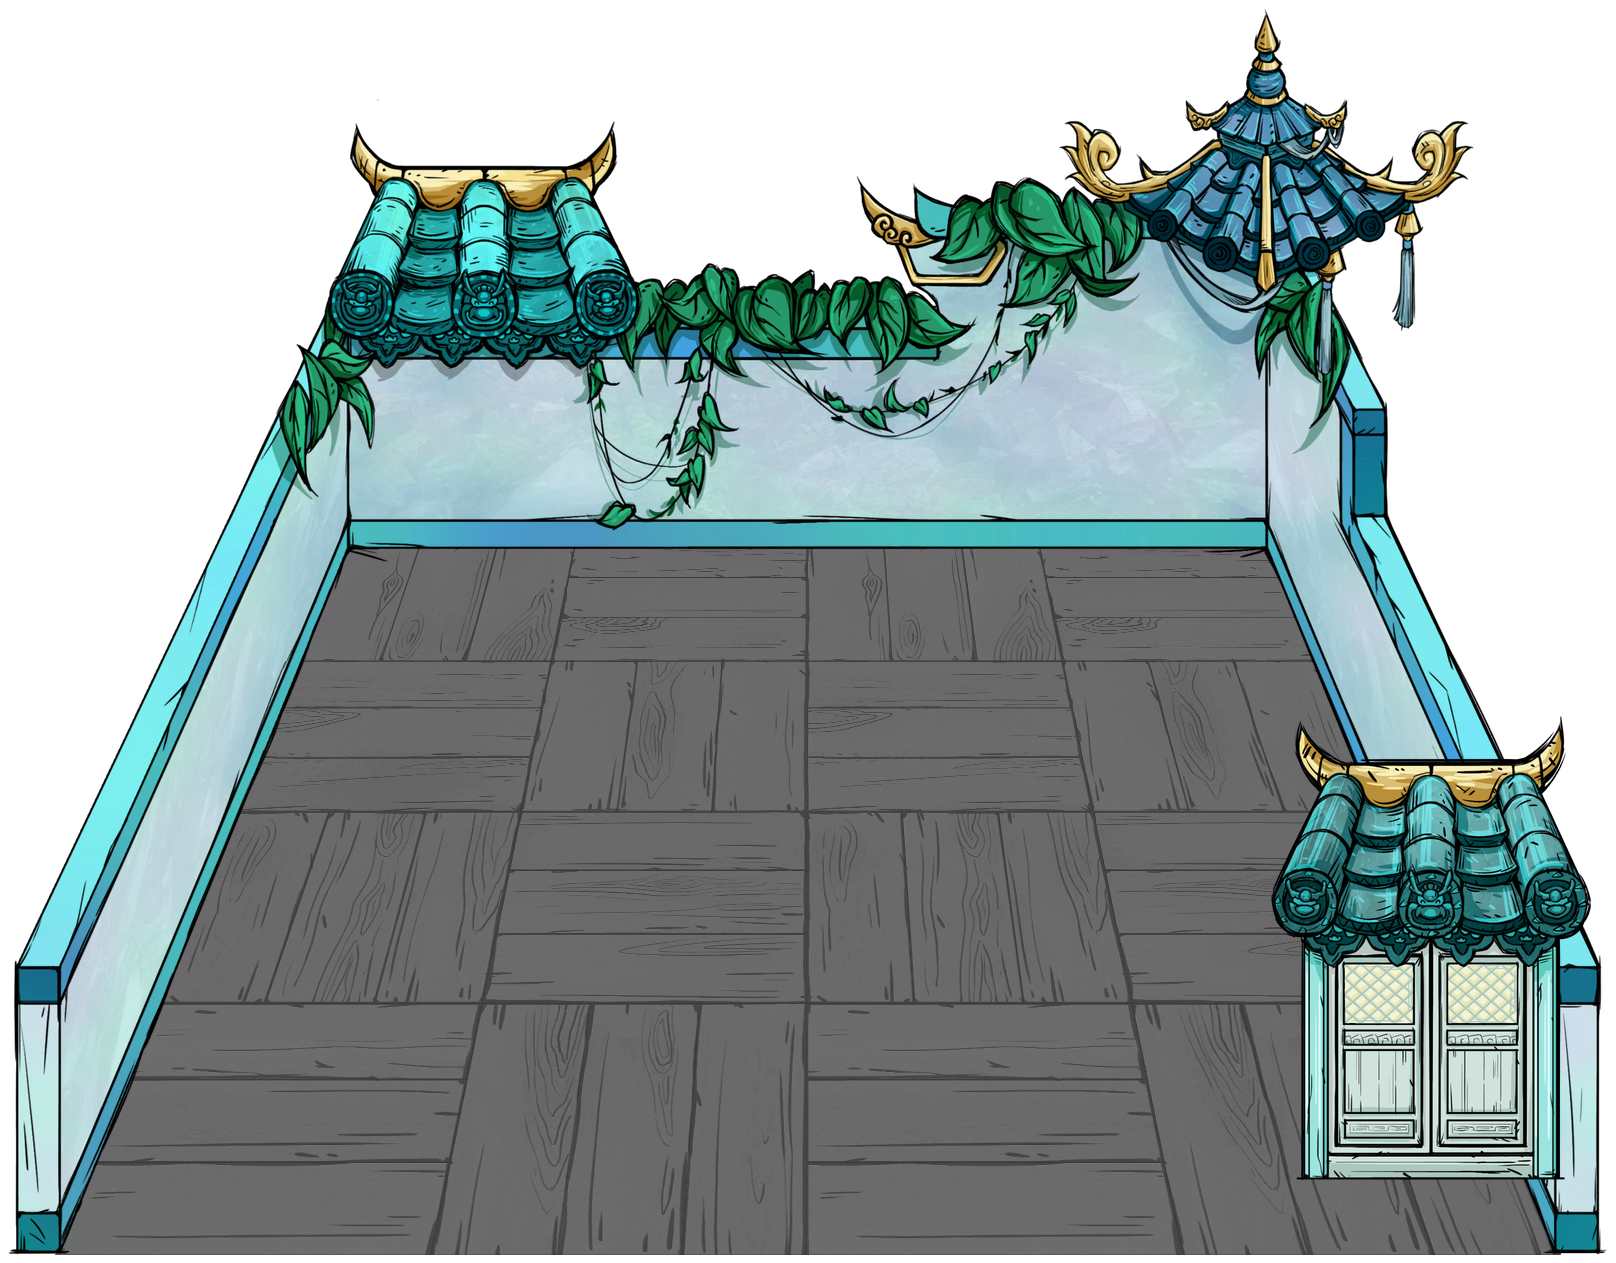
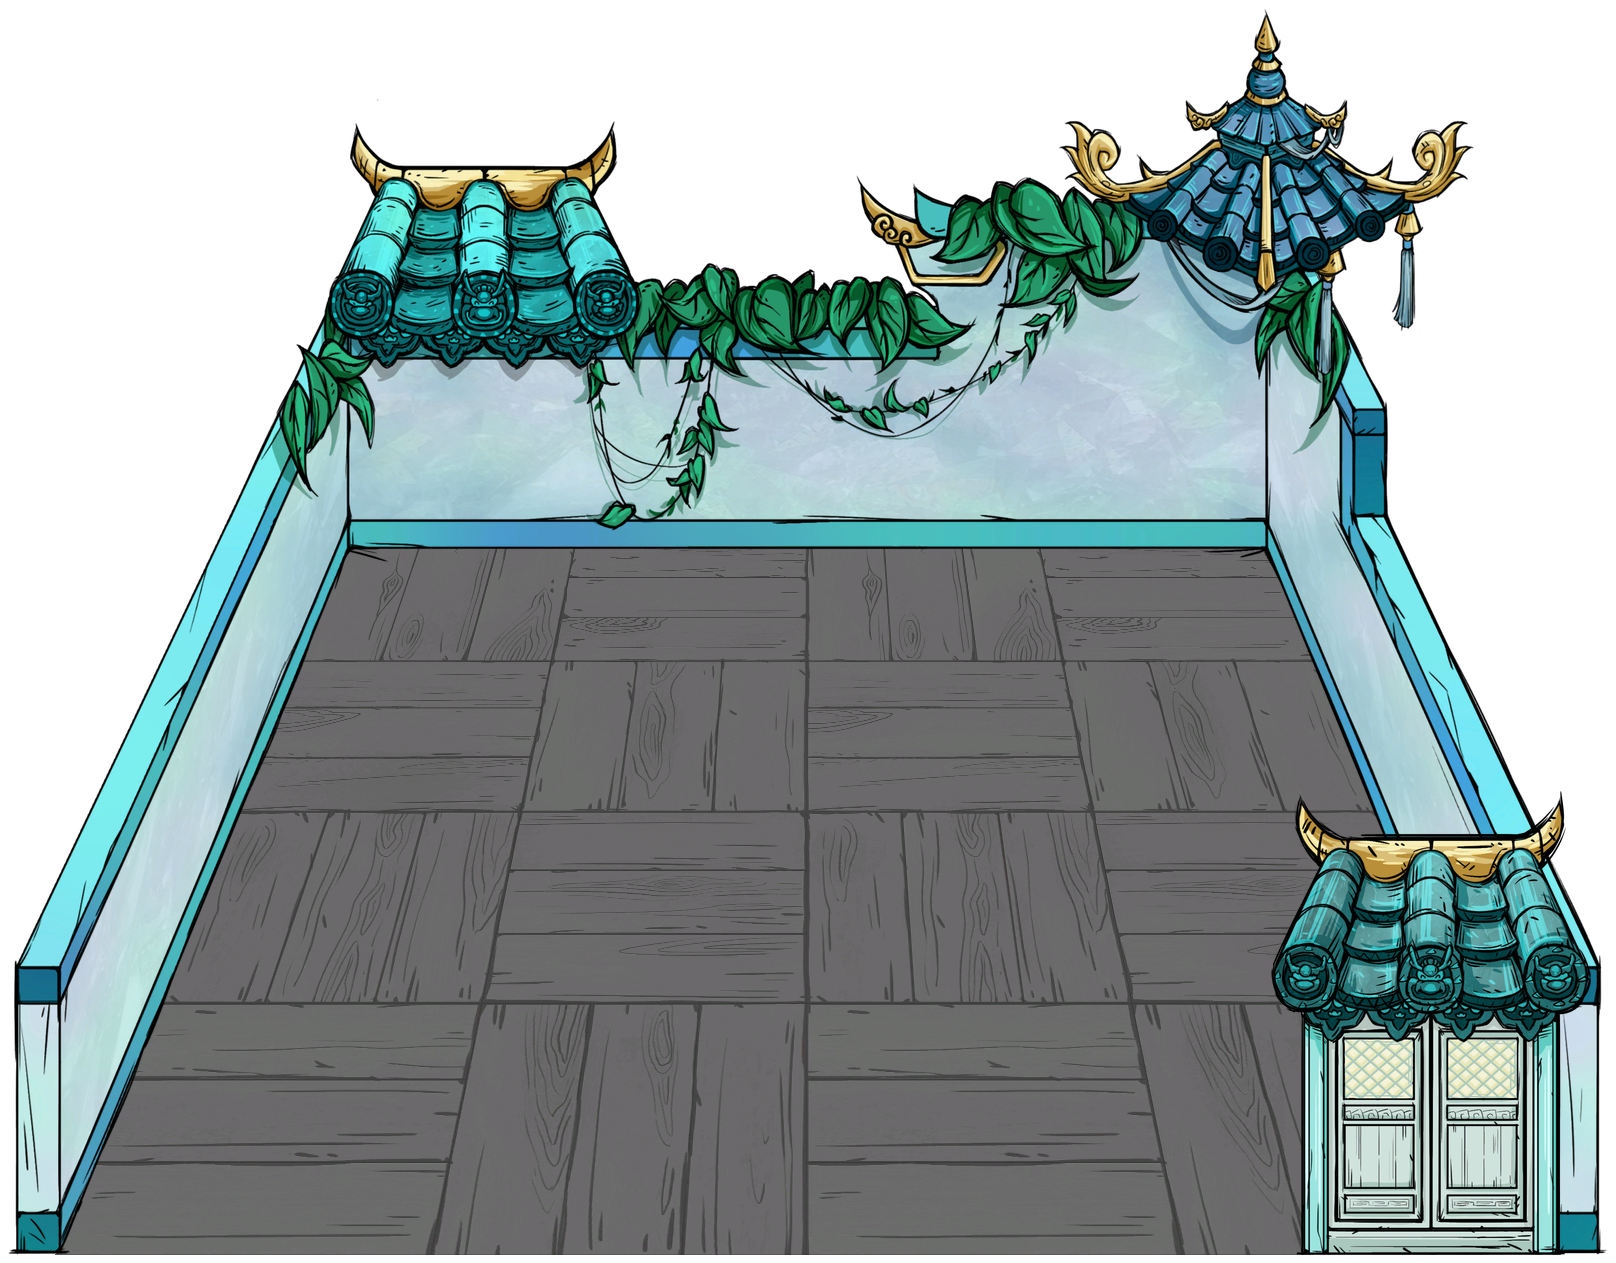
Align interior vines, stairs and doors with room openings

Changed region(s): [[0.7735, 0.5867, 0.9901, 1.0]]

diff --git a/data/site-data.js b/data/site-data.js
@@ -3734,9 +3734,9 @@ window.SITE_DATA = {
       "illustration": "assets/img/terrains/loc_hall.png",
       "preview_caption": "厅堂内景预览",
       "scene_hotspots": [
-        {"label": "引霄灵藤（左侧）", "target": "loc_bedroom", "x": 25.2475, "y": 51.3849, "width": 14.4802, "height": 46.6094, "hint": "进入左侧卧房", "hint_align": "start"},
-        {"label": "引霄灵藤（右侧）", "target": "loc_bedroom_right", "x": 74.7525, "y": 51.3849, "width": 14.4802, "height": 46.6094, "hint": "进入右侧卧房", "hint_align": "end"},
-        {"label": "青石楼梯", "target": "loc_foyer", "x": 49.6287, "y": 92.4546, "width": 21.0396, "height": 8.787, "hint": "返回前室"}
+        {"label": "引霄灵藤（左侧）", "target": "loc_bedroom", "x": 9.7772, "y": 62.8857, "width": 14.4802, "height": 44.2831, "hint": "进入左侧卧房", "hint_align": "start"},
+        {"label": "引霄灵藤（右侧）", "target": "loc_bedroom_right", "x": 90.2228, "y": 62.8857, "width": 14.4802, "height": 44.2831, "hint": "进入右侧卧房", "hint_align": "end"},
+        {"label": "青石楼梯", "target": "loc_foyer", "x": 49.6287, "y": 95.0998, "width": 21.0396, "height": 8.3485, "hint": "返回前室"}
       ],
       "scene_hint": "点击图中引霄灵藤（左侧）、引霄灵藤（右侧）、青石楼梯，前往对应位置。",
       "summary": "青玄阁内连接两间卧房的厅堂，共用防猎犬生成、恒温、避雨与夜间照明。",
@@ -3777,7 +3777,7 @@ window.SITE_DATA = {
       "aliases": ["阁主卧房", "左侧卧房"],
       "illustration": "assets/img/terrains/loc_bedroom.png",
       "scene_hotspots": [
-        {"label": "鎏角青玄门", "target": "loc_hall", "x": 88.552, "y": 75.0594, "width": 19.802, "height": 36.7379, "hint": "返回厅堂", "hint_align": "end"}
+        {"label": "鎏角青玄门", "target": "loc_hall", "x": 88.552, "y": 80.9976, "width": 19.802, "height": 36.7379, "hint": "返回厅堂", "hint_align": "end"}
       ],
       "preview_caption": "左侧卧房内景预览",
       "scene_hint": "点击图中鎏角青玄门，前往对应位置。",
@@ -3818,7 +3818,7 @@ window.SITE_DATA = {
       "aliases": ["右侧卧房"],
       "illustration": "assets/img/terrains/loc_bedroom_right.png",
       "scene_hotspots": [
-        {"label": "银翘古木门", "target": "loc_hall", "x": 11.3243, "y": 74.8219, "width": 19.802, "height": 36.7379, "hint": "返回厅堂", "hint_align": "start"}
+        {"label": "银翘古木门", "target": "loc_hall", "x": 11.3243, "y": 80.9976, "width": 19.802, "height": 36.7379, "hint": "返回厅堂", "hint_align": "start"}
       ],
       "preview_caption": "右侧卧房内景预览",
       "scene_hint": "点击图中银翘古木门，前往对应位置。",

diff --git a/tools/export_terrain_previews.py b/tools/export_terrain_previews.py
@@ -35,7 +35,7 @@ FLOOR_QUADS = {
 
 # Separate prefabs spawned by bighead_door_exit.lua, not baked into the walls.
 # World positions are (x, z) relative to each house centre. Preview offsets
-# bring the vines onto the visible inner edge of the cutaway wall; they are
+# align the vines with the side stairs and doors with the front wall openings; they are
 # image-space calibration, not changes to the mod's world coordinates.
 # preview_scale also calibrates the cutaway composition: foreground doors and
 # steps must remain readable beside the separately projected floor and walls.
@@ -54,28 +54,31 @@ FURNISHINGS = {
          'world_position': (-15.3, 0)},
         {'prefab': 'bighead_men2', 'animation': 'men2',
          'preview_scale': 1.5,
-         'world_position': (1.65, -15), 'preview_offset': (110, 115),
+         'world_position': (1.65, -15), 'preview_offset': (-140, 270),
          'target': 'loc_bedroom', 'label': '引霄灵藤（左侧）',
          'hint': '进入左侧卧房', 'hint_align': 'start'},
         {'prefab': 'bighead_men2', 'animation': 'men2',
          'preview_scale': 1.5,
          'world_position': (1.65, 15), 'mirror_x': True,
-         'preview_offset': (-110, 115),
+         'preview_offset': (140, 270),
          'target': 'loc_bedroom_right', 'label': '引霄灵藤（右侧）',
          'hint': '进入右侧卧房', 'hint_align': 'end'},
         {'prefab': 'bighead_door_exit', 'source': 'bighead_door_exit',
          'animation': 'idle', 'world_position': (14, -.15), 'preview_scale': 2.6,
+         'preview_offset': (0, 80),
          'target': 'loc_foyer', 'label': '青石楼梯', 'hint': '返回前室'},
     ],
     'loc_bedroom': [
         {'prefab': 'bighead_men3', 'animation': 'men3',
          'preview_scale': 1.6,
+         'preview_offset': (0, 75),
          'world_position': (14, 14), 'target': 'loc_hall',
          'label': '鎏角青玄门', 'hint': '返回厅堂', 'hint_align': 'end'},
     ],
     'loc_bedroom_right': [
         {'prefab': 'bighead_men4', 'animation': 'men4',
          'preview_scale': 1.6,
+         'preview_offset': (0, 78),
          'world_position': (14, -14), 'target': 'loc_hall',
          'label': '银翘古木门', 'hint': '返回厅堂', 'hint_align': 'start'},
     ],
@@ -159,6 +162,13 @@ def composite_furnishings(scene, entry_id, ratio, scratch, frames):
             position = (round(ground[0] - anchor[0]), round(ground[1] - anchor[1]))
         dx, dy = furnishing.get('preview_offset', (0, 0))
         position = (position[0] + dx, position[1] + dy)
+        # Front steps extend beyond the floor edge. Preserve their entire sprite
+        # by adding transparent canvas below, without moving or scaling the room.
+        required_height = max(scene.height, position[1] + sprite.height + 8)
+        if required_height > scene.height:
+            extended = Image.new('RGBA', (scene.width, required_height))
+            extended.alpha_composite(scene)
+            scene = extended
         scene.alpha_composite(sprite, position)
         record = {'prefab': furnishing['prefab'],
                   'source': furnishing.get('source', 'bighead_men'),
@@ -169,7 +179,7 @@ def composite_furnishings(scene, entry_id, ratio, scratch, frames):
             if key in furnishing:
                 record[key] = furnishing[key]
         records.append(record)
-    return records
+    return scene, records
 
 
 def sync_hotspots(records):
@@ -294,8 +304,8 @@ def export(tool, mod):
             floor_size = floor.size
             floor = floor.crop(floor.getchannel('A').getbbox())
             padded = composite_floor(padded, floor, FLOOR_QUADS[entry_id])
-            furnishings = composite_furnishings(padded, entry_id, image.width / native_size[0],
-                                                scratch, frames)
+            padded, furnishings = composite_furnishings(padded, entry_id, image.width / native_size[0],
+                                                        scratch, frames)
             target = ROOT / 'assets/img/terrains' / f'{entry_id}.png'
             padded.save(target, optimize=True)
             source = next(source for room_id, source, _ in ROOMS if room_id == entry_id)

diff --git a/docs/04-v4.8资料同步.md b/docs/04-v4.8资料同步.md
@@ -102,7 +102,7 @@ python tools/export_mod_displays.py --tool "C:/tools/dst-app.exe" --mod "../bigh
 
 厅堂另外叠入同一动画包的 `yizi`（太极莲尊）和两份 `men2`（引霄灵藤）第1帧。
 先使用墙景的缩小比例，根据房间生成代码中相对中心的坐标，将各自的动画原点投影到
-同一地面平面；右侧灵藤按代码中的 `eastside` 水平镜像。灵藤在剖面预览中向室内地面校准，
+同一地面平面；右侧灵藤按代码中的 `eastside` 水平镜像。灵藤在剖面预览中对齐外侧楼梯，
 图像偏移单列为 `preview_offset`，不将其冒充模组坐标。
 
 前室与厅堂的前方补入 `bighead_door_exit.zip` 的 `idle` 出口台阶；左、右卧房分别补入
@@ -111,6 +111,8 @@ python tools/export_mod_displays.py --tool "C:/tools/dst-app.exe" --mod "../bigh
 卧房门1.6倍，避免独立陈设在宽幅墙景中显得过小；铃铛和莲尊保留墙景缩小比例。
 校准单列为 `preview_scale`，仅用于合成展示，不代表游戏中的实体缩放。
 清单记录素材、房间坐标、镜像及最终图像边界；
+两扇卧房门底边对齐前侧墙口的地面，厅堂出口台阶跨过地板前沿；台阶下方自动增加透明
+画布，保留完整台阶，不缩放墙景或陈设。
 导出脚本根据最终边界同步条目 `scene_hotspots`，避免图像移位后点击区域停在旧位置。
 建筑区点击陈设原地切换对应房间，详情弹窗中打开对应房间详情。鼠标悬停与键盘聚焦只显示
 简洁名称提示，不再用红圈遮挡原图。建筑展示统一使用屋外入口的正方形画框，室内图按
